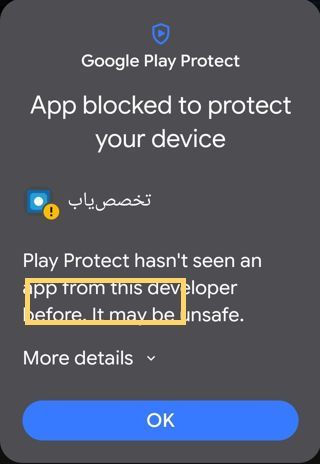
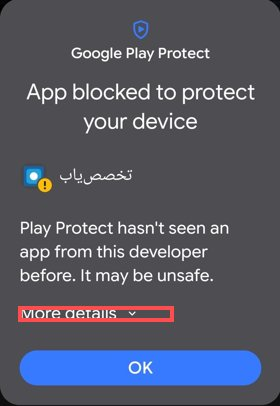
Fix guide boxes and save registration once by mobile

diff --git a/register.html b/register.html
@@ -1,40 +1,21 @@
 <!DOCTYPE html>
-<html lang="fa" dir="rtl">
-<head>
-<meta charset="utf-8">
-<meta name="viewport" content="width=device-width, initial-scale=1">
-<title>تخصصیاب</title>
-<style>
-body{margin:0;background:#0f1720;color:#e7edf3;font-family:Tahoma,sans-serif}
-.wrap{max-width:480px;margin:0 auto;padding:20px}
-.hero{text-align:center;padding:12px 0 4px}
-img{width:88px;height:88px;border-radius:22px;object-fit:cover}
-input,button{width:100%;box-sizing:border-box;border-radius:12px;padding:14px;margin-top:10px;border:0;font-size:16px}
-button{background:#229ED9;color:#fff;font-weight:700}
-.card{background:#17212b;border-radius:16px;padding:14px}
-a{color:#8fd0ff}
-</style>
-</head>
-<body>
-<div class="wrap">
-  <div class="hero"><img src="logo.jpg" alt=""><h1>تخصصیاب</h1><p>آگهی استخدام و رزومه، بدون نقش ثابت.</p></div>
-  <form class="card" id="f">
-    <input id="name" placeholder="نام" required>
-    <input id="mobile" placeholder="موبایل" inputmode="numeric" required>
-    <button type="submit">ادامه</button>
-  </form>
-  <p><a href="employer.html">آگهی استخدام</a> · <a href="jobseeker.html">رزومه</a></p>
-</div>
+<html lang="fa" dir="rtl"><head><meta charset="utf-8"><meta name="viewport" content="width=device-width, initial-scale=1"><title>تخصصیاب</title>
+<style>body{margin:0;background:#0f1720;color:#e7edf3;font-family:Tahoma,sans-serif}.wrap{max-width:420px;margin:0 auto;padding:28px 16px;text-align:center}img{width:72px;height:72px;border-radius:18px;object-fit:cover}input,button{width:100%;box-sizing:border-box;border:0;border-radius:12px;padding:14px;margin-top:10px}button{background:#229ED9;color:#fff;font-weight:700}</style></head>
+<body><div class="wrap"><img src="logo.jpg" alt=""><h1>تخصصیاب</h1>
+<form id="f"><input id="name" placeholder="نام" required><input id="mobile" placeholder="موبایل" inputmode="numeric" required><button>ادامه</button></form></div>
 <script>
 var END="https://script.google.com/macros/s/AKfycbw7BQdea5ifmFm1AN-nbxOj9ktW-99QyuH-n9eqqH3JK81oMCRe-gqQYPv5wUqw6x8/exec";
-if(localStorage.getItem("ty_user")) location.replace("index.html");
+function norm(s){return (s||"").replace(/[^0-9]/g,"").replace(/^98/,"0");}
+var saved=norm(localStorage.getItem("ty_mobile")||"");
+if(saved) location.replace("index.html");
 document.getElementById("f").onsubmit=function(e){
   e.preventDefault();
-  var p={type:"membership",name:name.value,mobile:mobile.value,telegram:"",role:"",field:"",city:"",years:"",source:"اپ",hp:""};
+  var mobile=norm(document.getElementById("mobile").value);
+  if(mobile && mobile===saved){location.replace("index.html");return;}
+  var p={type:"membership",name:document.getElementById("name").value,mobile:mobile,telegram:"",role:"",field:"",city:"",years:"",source:"اپ",hp:""};
   fetch(END,{method:"POST",mode:"no-cors",headers:{"Content-Type":"text/plain;charset=utf-8"},body:JSON.stringify(p)});
-  localStorage.setItem("ty_user",JSON.stringify(p));
-  location.replace("index.html");
+  localStorage.setItem("ty_mobile", mobile);
+  localStorage.setItem("ty_user", JSON.stringify(p));
+  setTimeout(function(){location.replace("index.html");}, 700);
 };
-</script>
-</body>
-</html>
+</script></body></html>

diff --git a/app.html b/app.html
@@ -1,8 +1,7 @@
 <!DOCTYPE html>
 <html lang="fa" dir="rtl"><head><meta charset="utf-8"><meta name="viewport" content="width=device-width, initial-scale=1"><title>نصب</title>
-<style>body{margin:0;background:#0f1720;color:#e7edf3;font-family:Tahoma,sans-serif}.wrap{max-width:420px;margin:0 auto;padding:12px}.top{display:flex;gap:10px;align-items:center}img.logo{width:44px;height:44px;border-radius:12px;object-fit:cover}a.btn{display:block;text-align:center;background:#229ED9;color:#fff;text-decoration:none;border-radius:10px;padding:12px;margin:10px 0}.row{display:flex;gap:8px}.card{flex:1;background:#17212b;border-radius:12px;padding:8px;font-size:13px}img.shot{width:100%;border-radius:8px}.y{color:#ffd56a}.g{color:#3dd68c}</style></head>
-<body><div class="wrap"><div class="top"><img class="logo" src="logo.jpg" alt=""><b>تخصصیاب</b></div>
-<a class="btn" href="takhassosyab.apk">دانلود برنامه</a>
-<div class="row"><div class="card"><b class="y">۱. More details</b><img class="shot" src="play-1-sm.jpg"></div>
-<div class="card"><b class="g">۲. Install anyway</b><img class="shot" src="play-2-sm.jpg"></div></div>
-<p>OK را نزن. اول جای زرد، بعد جای سبز.</p></div></body></html>
+<style>body{margin:0;background:#0f1720;color:#e7edf3;font-family:Tahoma,sans-serif}.wrap{max-width:420px;margin:0 auto;padding:12px}.row{display:flex;gap:8px}.card{flex:1;background:#17212b;border-radius:12px;padding:8px;font-size:13px}img{width:100%;border-radius:8px}.r{color:#ff6b6b}.g{color:#3dd68c}a.btn{display:block;text-align:center;background:#229ED9;color:#fff;text-decoration:none;border-radius:10px;padding:12px;margin:10px 0}</style></head>
+<body><div class="wrap"><a class="btn" href="takhassosyab.apk">دانلود برنامه</a>
+<div class="row"><div class="card"><b class="r">۱. More details</b><img src="play-1-sm.jpg"></div>
+<div class="card"><b class="g">۲. Install anyway</b><img src="play-2-sm.jpg"></div></div>
+<p>OK را نزن. اول کادر قرمز، بعد کادر سبز.</p></div></body></html>
